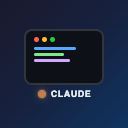
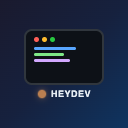
Rename to HeyDev — AI-agnostic branding
- Renamed extension from "Claude Terminal Status" to "HeyDev"
- Updated all config keys: claudeTerminalStatus.* → heydev.*
- AI-agnostic descriptions (supports Claude Code now, more planned)
- Regenerated icon and settings screenshot with new branding
- Updated README with new name and tagline
- Added keywords: codex, copilot, aider, heydev

Changed region(s): [[0.375, 0.6875, 0.7188, 0.7812]]

diff --git a/images/screenshots.html b/images/screenshots.html
@@ -269,30 +269,30 @@
 <div class="screenshot" id="screenshot-settings">
   <div class="settings-panel">
     <div class="settings-header">
-      <span class="gear">&#x2699;</span> Claude Terminal Status
+      <span class="gear">&#x2699;</span> HeyDev
     </div>
     <div class="settings-body">
       <div class="setting-row">
-        <div class="setting-name"><span class="namespace">Claude Terminal Status:</span> Show Notifications</div>
-        <div class="setting-desc">Show VS Code notifications when Claude has been waiting for your input</div>
+        <div class="setting-name"><span class="namespace">HeyDev:</span> Show Notifications</div>
+        <div class="setting-desc">Show VS Code notifications when your AI agent has been waiting for your input</div>
         <div class="setting-checkbox">
           <div class="checkbox">&#x2713;</div>
           <span style="font-size: 13px;">Enabled</span>
         </div>
       </div>
       <div class="setting-row">
-        <div class="setting-name"><span class="namespace">Claude Terminal Status:</span> Notification Delay Seconds</div>
+        <div class="setting-name"><span class="namespace">HeyDev:</span> Notification Delay Seconds</div>
         <div class="setting-desc">Seconds to wait before showing a notification (0 = immediate)</div>
         <input class="setting-input" type="text" value="60" readonly>
       </div>
       <div class="setting-row">
-        <div class="setting-name"><span class="namespace">Claude Terminal Status:</span> Working Emoji</div>
-        <div class="setting-desc">Emoji shown in terminal tab when Claude is working</div>
+        <div class="setting-name"><span class="namespace">HeyDev:</span> Working Emoji</div>
+        <div class="setting-desc">Emoji shown in terminal tab when the AI CLI is working</div>
         <input class="setting-emoji" type="text" value="&#x26A1;" readonly>
       </div>
       <div class="setting-row">
-        <div class="setting-name"><span class="namespace">Claude Terminal Status:</span> Waiting Emoji</div>
-        <div class="setting-desc">Emoji shown in terminal tab when Claude is waiting for input</div>
+        <div class="setting-name"><span class="namespace">HeyDev:</span> Waiting Emoji</div>
+        <div class="setting-desc">Emoji shown in terminal tab when the AI CLI is waiting for input</div>
         <input class="setting-emoji" type="text" value="&#x1F440;" readonly>
       </div>
     </div>

diff --git a/src/extension.ts b/src/extension.ts
@@ -8,7 +8,7 @@ import { NotificationManager } from "./notificationManager.js";
 import type { SessionState } from "./types.js";
 
 function syncEmojiConfig(stateDir: string): void {
-  const config = vscode.workspace.getConfiguration("claudeTerminalStatus");
+  const config = vscode.workspace.getConfiguration("heydev");
   const emojiConfig = {
     workingEmoji: config.get<string>("workingEmoji", "⚡"),
     waitingEmoji: config.get<string>("waitingEmoji", "👀"),
@@ -21,7 +21,7 @@ function syncEmojiConfig(stateDir: string): void {
 }
 
 export function activate(context: vscode.ExtensionContext): void {
-  const config = vscode.workspace.getConfiguration("claudeTerminalStatus");
+  const config = vscode.workspace.getConfiguration("heydev");
   const customDir = config.get<string>("stateDirectory", "");
   const stateDir = customDir || path.join(os.homedir(), ".claude", "terminal-status");
 
@@ -33,7 +33,7 @@ export function activate(context: vscode.ExtensionContext): void {
   syncEmojiConfig(stateDir);
   context.subscriptions.push(
     vscode.workspace.onDidChangeConfiguration((e) => {
-      if (e.affectsConfiguration("claudeTerminalStatus")) {
+      if (e.affectsConfiguration("heydev")) {
         syncEmojiConfig(stateDir);
       }
     })
@@ -60,7 +60,7 @@ export function activate(context: vscode.ExtensionContext): void {
     },
   });
 
-  console.log("Claude Terminal Status extension activated");
+  console.log("HeyDev extension activated");
 }
 
 export function deactivate(): void {

diff --git a/src/notificationManager.ts b/src/notificationManager.ts
@@ -44,7 +44,7 @@ export class NotificationManager {
   }
 
   private scheduleNotification(state: SessionState): void {
-    const config = vscode.workspace.getConfiguration("claudeTerminalStatus");
+    const config = vscode.workspace.getConfiguration("heydev");
     if (!config.get<boolean>("showNotifications", true)) return;
 
     // Cancel any existing timer for this session (reset the clock)
@@ -77,8 +77,8 @@ export class NotificationManager {
       : "";
 
     const message = delaySeconds === 0
-      ? `Claude [${state.tag}] needs your attention${snippet}`
-      : `Claude [${state.tag}] waiting${snippet}`;
+      ? `[${state.tag}] needs your attention${snippet}`
+      : `[${state.tag}] waiting${snippet}`;
 
     // Mark this notification as active
     this.activeNotifications.add(state.session_id);
@@ -99,7 +99,7 @@ export class NotificationManager {
       terminal.show();
     } else if (action === "Quick Reply") {
       const reply = await vscode.window.showInputBox({
-        prompt: `Reply to Claude [${state.tag}]`,
+        prompt: `Reply to [${state.tag}]`,
         placeHolder: "Type your response (e.g. yes, no, continue...)",
       });
       if (reply !== undefined && reply !== "") {

diff --git a/src/terminalManager.ts b/src/terminalManager.ts
@@ -115,8 +115,8 @@ export class TerminalManager {
       if (tracked.terminal === terminal) {
         const icon = tracked.currentState === "working" ? "$(zap)" : "$(eye)";
         const stateText = tracked.currentState === "working" ? "Working" : "Waiting";
-        this.statusBarItem.text = `${icon} Claude [${tracked.tag}] ${stateText}`;
-        this.statusBarItem.tooltip = `Claude session ${tracked.tag} is ${stateText.toLowerCase()}`;
+        this.statusBarItem.text = `${icon} [${tracked.tag}] ${stateText}`;
+        this.statusBarItem.tooltip = `Session ${tracked.tag} is ${stateText.toLowerCase()}`;
         this.statusBarItem.show();
         return;
       }

diff --git a/images/icon.html b/images/icon.html
@@ -86,7 +86,7 @@
     </div>
     <div class="status-row">
       <div class="status-dot"></div>
-      <span class="status-text">CLAUDE</span>
+      <span class="status-text">HEYDEV</span>
     </div>
   </div>
 </body>

diff --git a/README.md b/README.md
@@ -1,33 +1,33 @@
-# Claude Terminal Status
+# HeyDev
 
-> Know when Claude needs you — without watching the terminal.
+> Hey dev, your AI is waiting for you.
 
-A VS Code extension that shows real-time status indicators for Claude Code CLI sessions in your terminal tabs, with smart notifications that bring you back when Claude is waiting for input.
+A VS Code extension that shows real-time status indicators for AI CLI sessions (like Claude Code) in your terminal tabs, with smart notifications that bring you back when the AI is waiting for input.
 
 ## The Problem
 
-When running multiple Claude Code sessions in VS Code, you constantly switch between terminals to check if Claude is done working or waiting for your input. There's no visual indicator in the terminal tab, and no way to know which session needs attention.
+When running multiple AI CLI sessions in VS Code, you constantly switch between terminals to check if the agent is done working or waiting for your input. There's no visual indicator in the terminal tab, and no way to know which session needs attention.
 
 ## The Solution
 
-Claude Terminal Status adds live status indicators to your terminal tabs and sends smart VS Code notifications when Claude has been waiting for you.
+HeyDev adds live status indicators to your terminal tabs and sends smart VS Code notifications when your AI agent has been waiting for you.
 
 ## Features
 
 ### Terminal Tab Status
 
-Each Claude terminal tab shows its current state with a unique session tag:
+Each AI terminal tab shows its current state with a unique session tag:
 
 ![Terminal tabs showing Working and Waiting states](images/screenshot-tabs.png)
 
-- **⚡ Claude [a1b2] - Working** — Claude is actively using tools
-- **👀 Claude [a1b2] - Waiting** — Claude is waiting for your input
+- **⚡ Claude [a1b2] - Working** — The AI agent is actively using tools
+- **👀 Claude [a1b2] - Waiting** — The AI agent is waiting for your input
 
-The 4-character tag (`a1b2`) uniquely identifies each session, so you can tell multiple Claude terminals apart at a glance.
+The 4-character tag (`a1b2`) uniquely identifies each session, so you can tell multiple terminals apart at a glance.
 
 ### Smart Notifications
 
-When Claude has been waiting for your input, a VS Code notification appears with context about what Claude is asking:
+When the AI agent has been waiting for your input, a VS Code notification appears with context about what it's asking:
 
 ![Notification with Focus Terminal and Quick Reply buttons](images/screenshot-notification.png)
 
@@ -35,9 +35,9 @@ When Claude has been waiting for your input, a VS Code notification appears with
 - **Quick Reply** — Opens an input box to send a response (e.g., "yes", "no", "continue") without switching terminals
 
 Notifications are smart:
-- Show a snippet of Claude's last message so you know what it's asking
+- Show a snippet of the AI's last message so you know what it's asking
 - Only fire after a configurable delay (default: 60 seconds)
-- Cancelled if Claude starts working again before the delay
+- Cancelled if the AI starts working again before the delay
 - Cancelled if you manually switch to the terminal
 - Suppressed if the terminal is already focused
 
@@ -49,7 +49,12 @@ Customize emojis, notification timing, and more:
 
 ### Status Bar
 
-The VS Code status bar shows the state of the currently focused Claude terminal session.
+The VS Code status bar shows the state of the currently focused AI terminal session.
+
+## Supported Tools
+
+- **Claude Code** — Fully supported today via hooks
+- **Codex, Copilot, Aider** — Planned for future releases
 
 ## Installation
 
@@ -60,7 +65,7 @@ cd claude-terminal-status
 npm install
 npm run compile
 npx @vscode/vsce package --allow-missing-repository
-code --install-extension claude-terminal-status-0.1.0.vsix
+code --install-extension heydev-0.1.0.vsix
 ```
 
 ### Prerequisites
@@ -145,7 +150,7 @@ Add these hooks to your `~/.claude/settings.json`:
         "hooks": [
           {
             "type": "command",
-            "command": "~/.claude/scripts/claude-hook-state.sh waiting",
+            "command": "~/.claude/scripts/claude-hook-state.sh working",
             "async": true
           }
         ]
@@ -176,37 +181,37 @@ Press `Cmd+Shift+P` → "Reload Window" to activate the extension.
 
 ## Settings
 
-Configure via VS Code Settings (`Cmd+,`) → search "Claude Terminal Status":
+Configure via VS Code Settings (`Cmd+,`) → search "HeyDev":
 
 | Setting | Default | Description |
 |---------|---------|-------------|
-| `claudeTerminalStatus.showNotifications` | `true` | Enable/disable VS Code notifications |
-| `claudeTerminalStatus.notificationDelaySeconds` | `60` | Seconds to wait before notifying (0 = immediate) |
-| `claudeTerminalStatus.workingEmoji` | `⚡` | Emoji for the "working" state in terminal tabs |
-| `claudeTerminalStatus.waitingEmoji` | `👀` | Emoji for the "waiting" state in terminal tabs |
-| `claudeTerminalStatus.stateDirectory` | *(auto)* | Override state file directory |
+| `heydev.showNotifications` | `true` | Enable/disable VS Code notifications |
+| `heydev.notificationDelaySeconds` | `60` | Seconds to wait before notifying (0 = immediate) |
+| `heydev.workingEmoji` | `⚡` | Emoji for the "working" state in terminal tabs |
+| `heydev.waitingEmoji` | `👀` | Emoji for the "waiting" state in terminal tabs |
+| `heydev.stateDirectory` | *(auto)* | Override state file directory |
 
 Emoji changes sync automatically to the hook script — no manual editing needed.
 
 ## How It Works
 
 ```
-Claude Code CLI
+AI CLI (e.g. Claude Code)
   ↓ (hooks fire on state changes)
 Hook Script (~/.claude/scripts/claude-hook-state.sh)
   ↓ writes state file          ↓ sets terminal title
   ~/.claude/terminal-status/    Terminal tab: ⚡ Claude [a1b2] - Working
   ↓ (fs.watch)
-VS Code Extension
+VS Code Extension (HeyDev)
   ↓ maps session → terminal via PID
   ↓ sends notifications
-  VS Code notification: "Claude [a1b2] has been waiting for 1 minute"
+  VS Code notification: "[a1b2] has been waiting for 1 minute"
     → [Focus Terminal] [Quick Reply]
 ```
 
-1. **Hooks** fire on Claude Code events (tool use, stop, user prompt)
+1. **Hooks** fire on AI CLI events (tool use, stop, user prompt)
 2. **Hook script** writes a JSON state file and sets the terminal title
-3. **Extension** watches the state directory for changes
+3. **HeyDev extension** watches the state directory for changes
 4. **PID matching** maps each state file to the correct VS Code terminal
 5. **Notifications** appear after the configured delay with actions to focus or quick-reply
 
